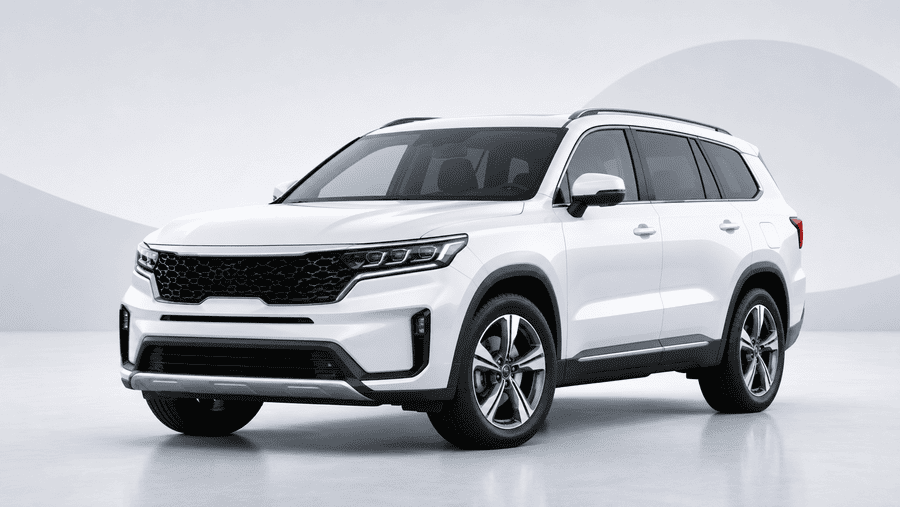
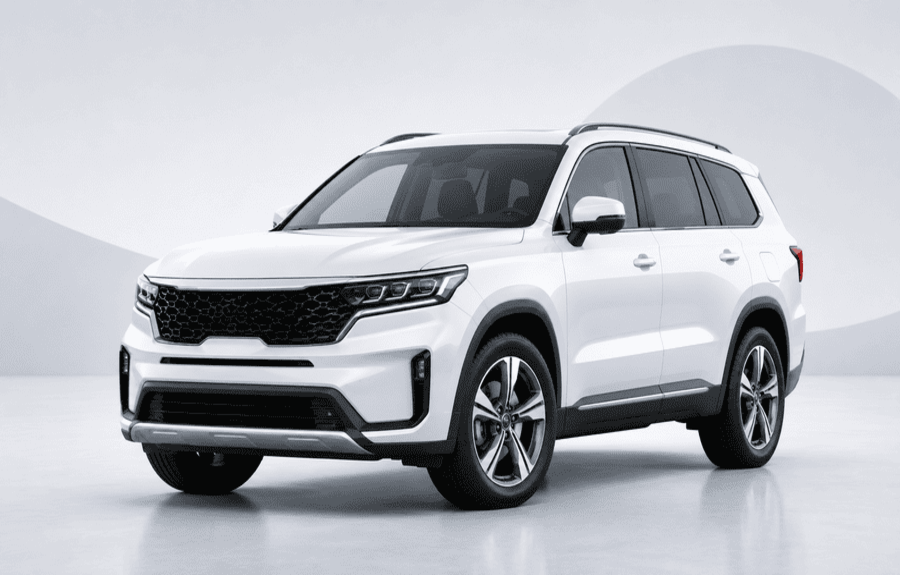
차량 상세 이미지 갤러리 UI 개선

diff --git a/client/src/pages/CarDetailPage.jsx b/client/src/pages/CarDetailPage.jsx
@@ -1,5 +1,6 @@
-import { useEffect, useState } from 'react';
+import { useEffect, useRef, useState } from 'react';
 import { Link, useNavigate, useParams } from 'react-router-dom';
+import { ChevronLeft, ChevronRight } from 'lucide-react';
 import api from '../api/api.js';
 import Header from '../components/Header.jsx';
 import CarImagePlaceholder from '../components/CarImagePlaceholder.jsx';
@@ -41,27 +42,186 @@ function getCarImages(car) {
 function CarDetailImage({ car }) {
   const [hasImageError, setHasImageError] = useState(false);
   const [selectedIndex, setSelectedIndex] = useState(0);
+  const [isImageChanging, setIsImageChanging] = useState(false);
+  const [displayImage, setDisplayImage] = useState(() => getCarImages(car)[0] || '');
+  const [previousImage, setPreviousImage] = useState('');
+  const touchStartRef = useRef(null);
+  const fadeTimeoutRef = useRef(null);
   const images = getCarImages(car);
-  const selectedImage = images[selectedIndex] || images[0];
+  const hasMultipleImages = images.length > 1;
 
-  if (!selectedImage || hasImageError) {
+  useEffect(() => {
+    const firstImage = images[0] || '';
+
+    setSelectedIndex(0);
+    setDisplayImage(firstImage);
+    setPreviousImage('');
+    setHasImageError(false);
+  }, [car._id]);
+
+  useEffect(() => {
+    images.forEach((imageUrl) => {
+      const image = new Image();
+      image.src = imageUrl;
+    });
+  }, [car._id]);
+
+  useEffect(() => () => {
+    if (fadeTimeoutRef.current) {
+      window.clearTimeout(fadeTimeoutRef.current);
+    }
+  }, []);
+
+  function changeImage(nextIndex) {
+    if (!images.length) {
+      return;
+    }
+
+    const normalizedIndex = (nextIndex + images.length) % images.length;
+    const nextImage = images[normalizedIndex];
+
+    if (!nextImage || (normalizedIndex === selectedIndex && nextImage === displayImage)) {
+      return;
+    }
+
+    const commitImageChange = () => {
+      if (fadeTimeoutRef.current) {
+        window.clearTimeout(fadeTimeoutRef.current);
+      }
+
+      setPreviousImage(displayImage);
+      setDisplayImage(nextImage);
+      setSelectedIndex(normalizedIndex);
+      setHasImageError(false);
+      setIsImageChanging(true);
+
+      fadeTimeoutRef.current = window.setTimeout(() => {
+        setIsImageChanging(false);
+        setPreviousImage('');
+      }, 180);
+    };
+
+    const image = new Image();
+    image.onload = commitImageChange;
+    image.onerror = commitImageChange;
+    image.src = nextImage;
+  }
+
+  function handlePreviousImage() {
+    changeImage(selectedIndex - 1);
+  }
+
+  function handleNextImage() {
+    changeImage(selectedIndex + 1);
+  }
+
+  function handleKeyDown(event) {
+    if (!hasMultipleImages) {
+      return;
+    }
+
+    if (event.key === 'ArrowLeft') {
+      event.preventDefault();
+      handlePreviousImage();
+    }
+
+    if (event.key === 'ArrowRight') {
+      event.preventDefault();
+      handleNextImage();
+    }
+  }
+
+  function handleTouchStart(event) {
+    const touch = event.touches[0];
+
+    touchStartRef.current = {
+      x: touch.clientX,
+      y: touch.clientY,
+    };
+  }
+
+  function handleTouchEnd(event) {
+    if (!hasMultipleImages || !touchStartRef.current) {
+      return;
+    }
+
+    const touch = event.changedTouches[0];
+    const deltaX = touch.clientX - touchStartRef.current.x;
+    const deltaY = touch.clientY - touchStartRef.current.y;
+    const isHorizontalSwipe = Math.abs(deltaX) >= 48 && Math.abs(deltaX) > Math.abs(deltaY) * 1.2;
+
+    touchStartRef.current = null;
+
+    if (!isHorizontalSwipe) {
+      return;
+    }
+
+    if (deltaX > 0) {
+      handlePreviousImage();
+      return;
+    }
+
+    handleNextImage();
+  }
+
+  if (!displayImage || hasImageError) {
     return <CarImagePlaceholder company={car.company} name={car.name} large />;
   }
 
   return (
-    <div>
-      <div className="relative flex aspect-[4/3] min-h-[260px] items-center justify-center overflow-hidden rounded-xl border border-slate-200 bg-white shadow-[0_2px_10px_rgba(15,23,42,0.05)] sm:min-h-[360px] lg:min-h-[420px]">
+    <div onKeyDown={handleKeyDown}>
+      <div
+        className="relative flex aspect-[4/3] min-h-[260px] touch-pan-y items-center justify-center overflow-hidden rounded-xl border border-slate-200 bg-white shadow-[0_2px_10px_rgba(15,23,42,0.05)] focus-visible:outline focus-visible:outline-2 focus-visible:outline-offset-2 focus-visible:outline-blue-500 sm:min-h-[360px] lg:min-h-[420px]"
+        tabIndex={hasMultipleImages ? 0 : undefined}
+        role={hasMultipleImages ? 'region' : undefined}
+        aria-label={hasMultipleImages ? '차량 이미지 갤러리' : undefined}
+        onTouchStart={handleTouchStart}
+        onTouchEnd={handleTouchEnd}
+      >
+        {previousImage ? (
+          <img
+            src={previousImage}
+            alt=""
+            aria-hidden="true"
+            className={`absolute inset-0 h-full w-full object-contain object-center transition-opacity duration-200 ${
+              isImageChanging ? 'opacity-0' : 'opacity-100'
+            }`}
+          />
+        ) : null}
         <img
-          src={selectedImage}
+          src={displayImage}
           alt={car.name || '차량 이미지'}
-          className="h-full w-full object-contain object-center"
+          className={`absolute inset-0 h-full w-full object-contain object-center transition-opacity duration-200 ${
+            isImageChanging && previousImage ? 'opacity-100' : 'opacity-100'
+          }`}
           onError={() => {
             setHasImageError(true);
           }}
         />
+
+        {hasMultipleImages ? (
+          <>
+            <button
+              type="button"
+              className="absolute bottom-5 left-3 inline-flex h-11 w-11 items-center justify-center rounded-full bg-slate-950/35 text-white shadow-sm transition hover:bg-slate-950/55 focus:outline-none focus-visible:ring-2 focus-visible:ring-white/80 focus-visible:ring-offset-2 focus-visible:ring-offset-slate-900/20 sm:left-4"
+              onClick={handlePreviousImage}
+              aria-label="이전 이미지"
+            >
+              <ChevronLeft size={24} />
+            </button>
+            <button
+              type="button"
+              className="absolute bottom-5 right-3 inline-flex h-11 w-11 items-center justify-center rounded-full bg-slate-950/35 text-white shadow-sm transition hover:bg-slate-950/55 focus:outline-none focus-visible:ring-2 focus-visible:ring-white/80 focus-visible:ring-offset-2 focus-visible:ring-offset-slate-900/20 sm:right-4"
+              onClick={handleNextImage}
+              aria-label="다음 이미지"
+            >
+              <ChevronRight size={24} />
+            </button>
+          </>
+        ) : null}
       </div>
 
-      {images.length > 1 ? (
+      {hasMultipleImages ? (
         <div className="mt-3 grid grid-cols-4 gap-2 sm:grid-cols-6">
           {images.map((imageUrl, index) => (
             <button
@@ -71,8 +231,7 @@ function CarDetailImage({ car }) {
                 selectedIndex === index ? 'border-blue-500 ring-2 ring-blue-500/20' : 'border-slate-200 hover:border-blue-200'
               }`}
               onClick={() => {
-                setSelectedIndex(index);
-                setHasImageError(false);
+                changeImage(index);
               }}
             >
               <img src={imageUrl} alt={`${car.name || '차량 이미지'} ${index + 1}`} className="h-full w-full object-contain object-center" />